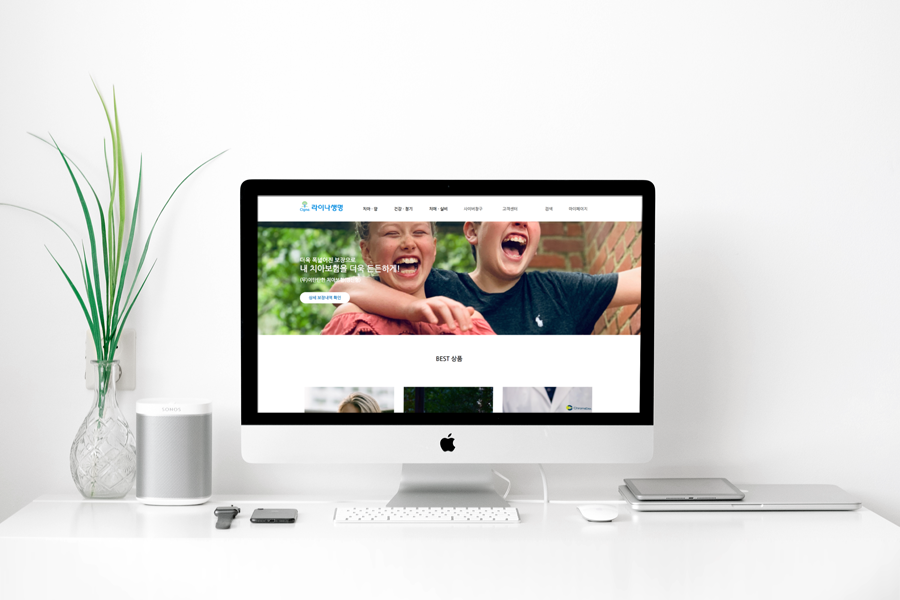
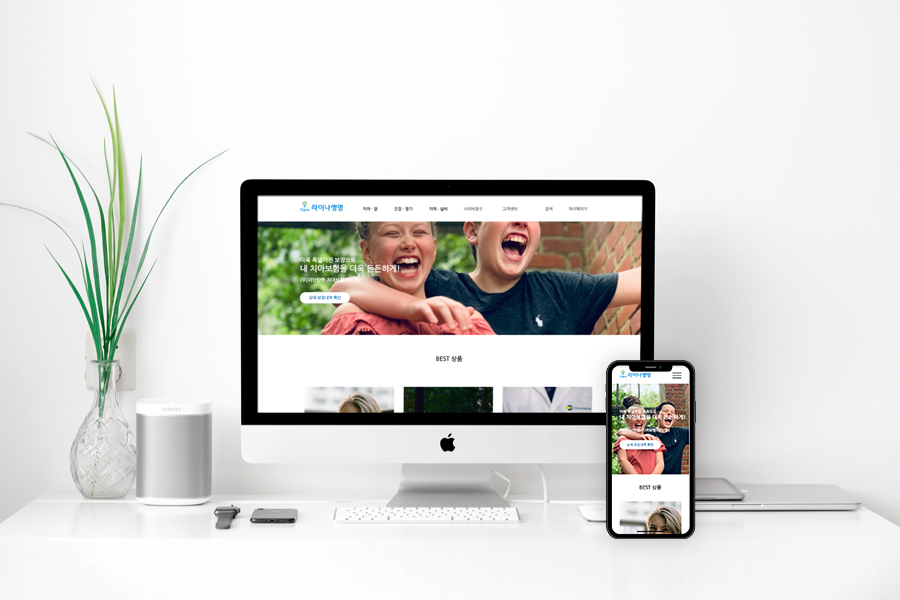
Add files via upload

Changed region(s): [[0.6533, 0.6, 0.7778, 0.9]]

diff --git a/index.html b/index.html
@@ -218,7 +218,7 @@
 					<div class="banner3_3 moving_all">
 						<div class="caption bg">
 							<div class="bd_line">
-								<p class="pjt_name">라이나생명<br><span>[웹 리디자인]<br>21.02.23 제작소요시간 3시간</span></p>
+								<p class="pjt_name">라이나생명<br><span>[반응형 웹 리디자인]<br>21.02.23 제작소요시간 3시간</span></p>
 
 								<div class="more_btn clearfix">
 									<div class="more"><a href="http://kimds1599.dothome.co.kr/Lina" target="_blank">Go to page</a></div>
